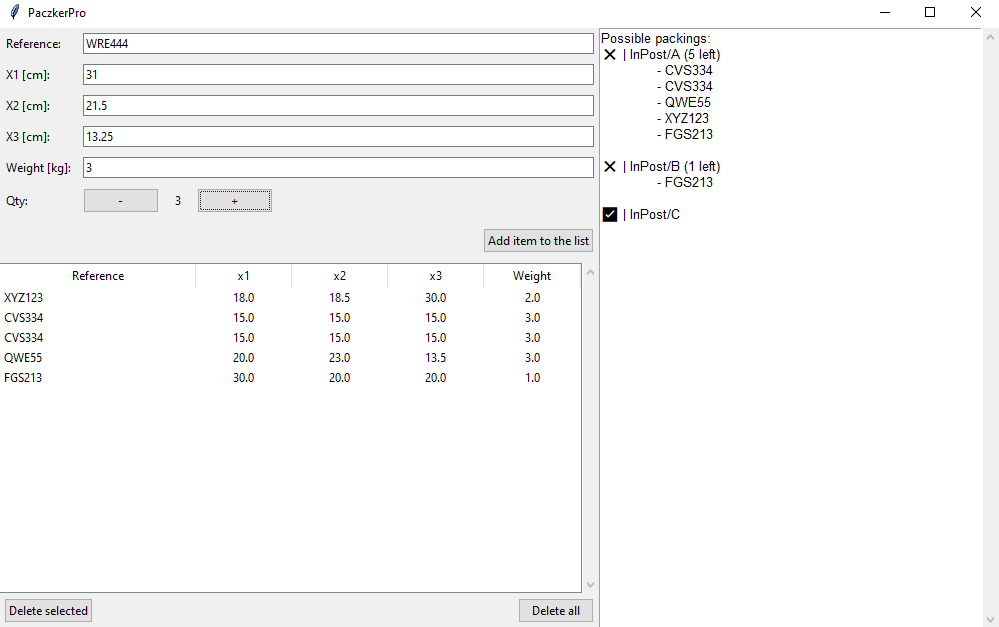
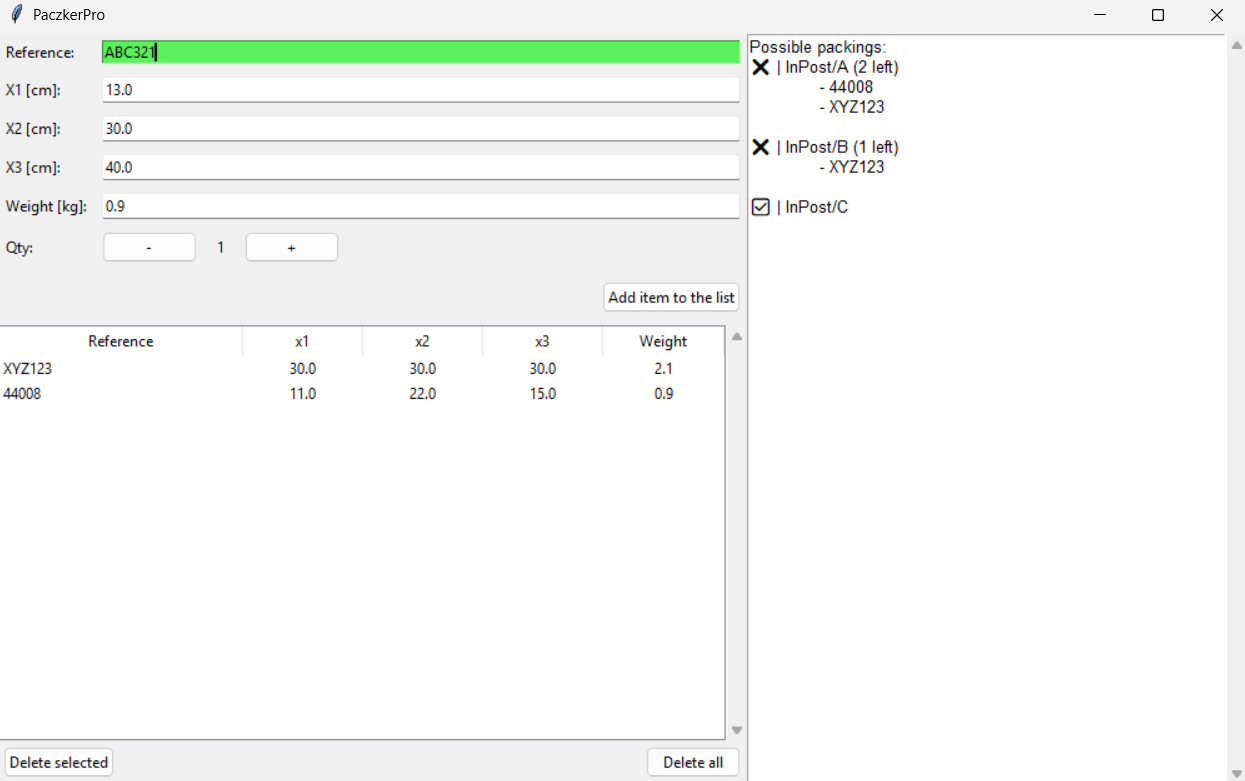
README update

diff --git a/README.md b/README.md
@@ -6,6 +6,8 @@ This is a **simple Python GUI application** built with **Tkinter** that uses the
 
 The tool allows users to **quickly check if a given list of items can be packed into defined parcel sizes**, such as the standard dimensions used by carriers like InPost (or any other configured company).
 
+Data can be entered very fast. **Products dimensions and weight are filled automatically based on reference** if suitable csv file is provided.
+
 ## Who uses this?
 
 This application is ideal for **E-commerce Sellers** to rapidly determine the most economical parcel size and avoid surcharges for incorrect dimensions.
